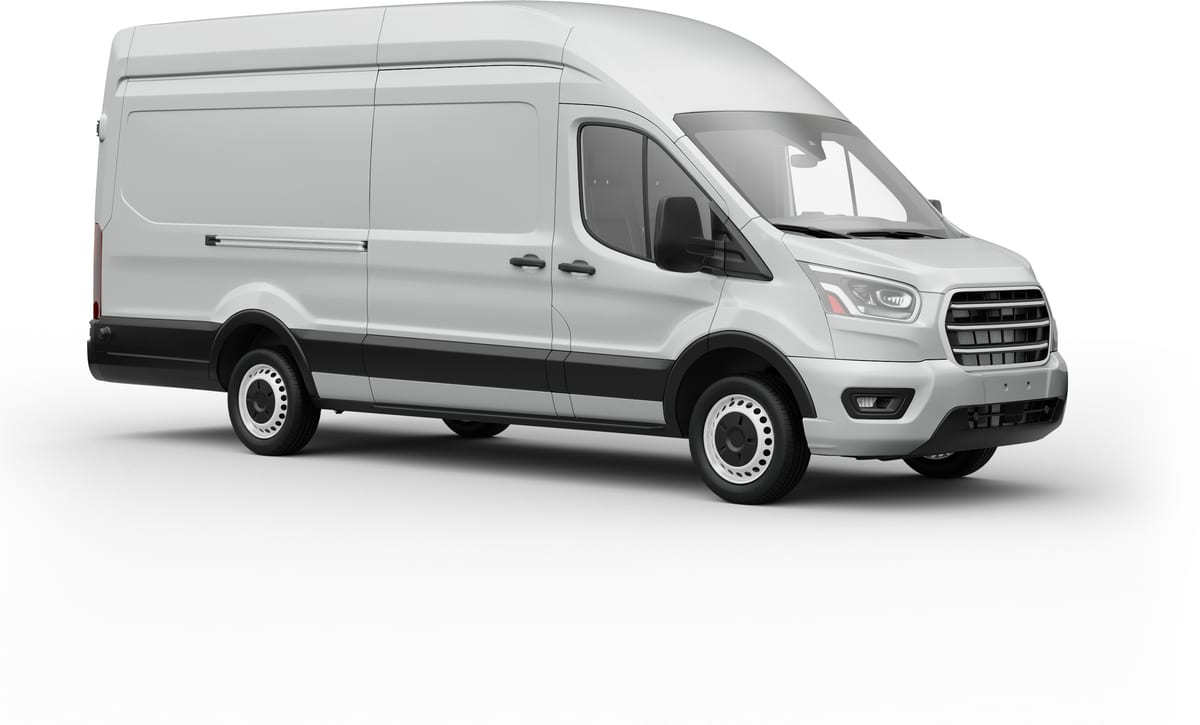
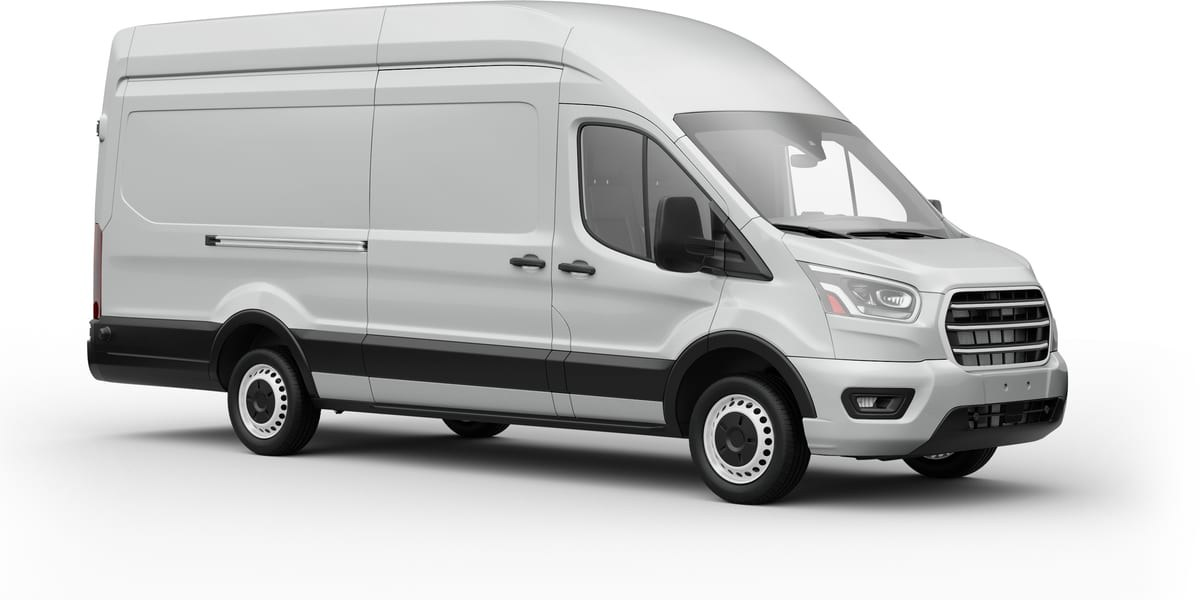
Trim excess white space from before/after van images

diff --git a/components/BrandTransformation.tsx b/components/BrandTransformation.tsx
@@ -29,7 +29,7 @@ export function BrandTransformation({ selectedPackage }: { selectedPackage?: str
                 </li>
               ))}
             </ul>
-            <div className="relative mt-5 aspect-[16/10] overflow-hidden rounded-lg bg-white">
+            <div className="relative mt-5 aspect-[2/1] overflow-hidden rounded-lg bg-white">
               <Image
                 src="/before-white-van.jpg"
                 alt="Unbranded plain white service van, before Monsta Media & Design branding"
@@ -55,7 +55,7 @@ export function BrandTransformation({ selectedPackage }: { selectedPackage?: str
                 </li>
               ))}
             </ul>
-            <div className="relative mt-5 aspect-[16/10] overflow-hidden rounded-lg bg-white">
+            <div className="relative mt-5 aspect-[2/1] overflow-hidden rounded-lg bg-white">
               <Image
                 src="/after-air-command.jpg"
                 alt="Air Command HVAC branded van wrap by Monsta Media & Design"